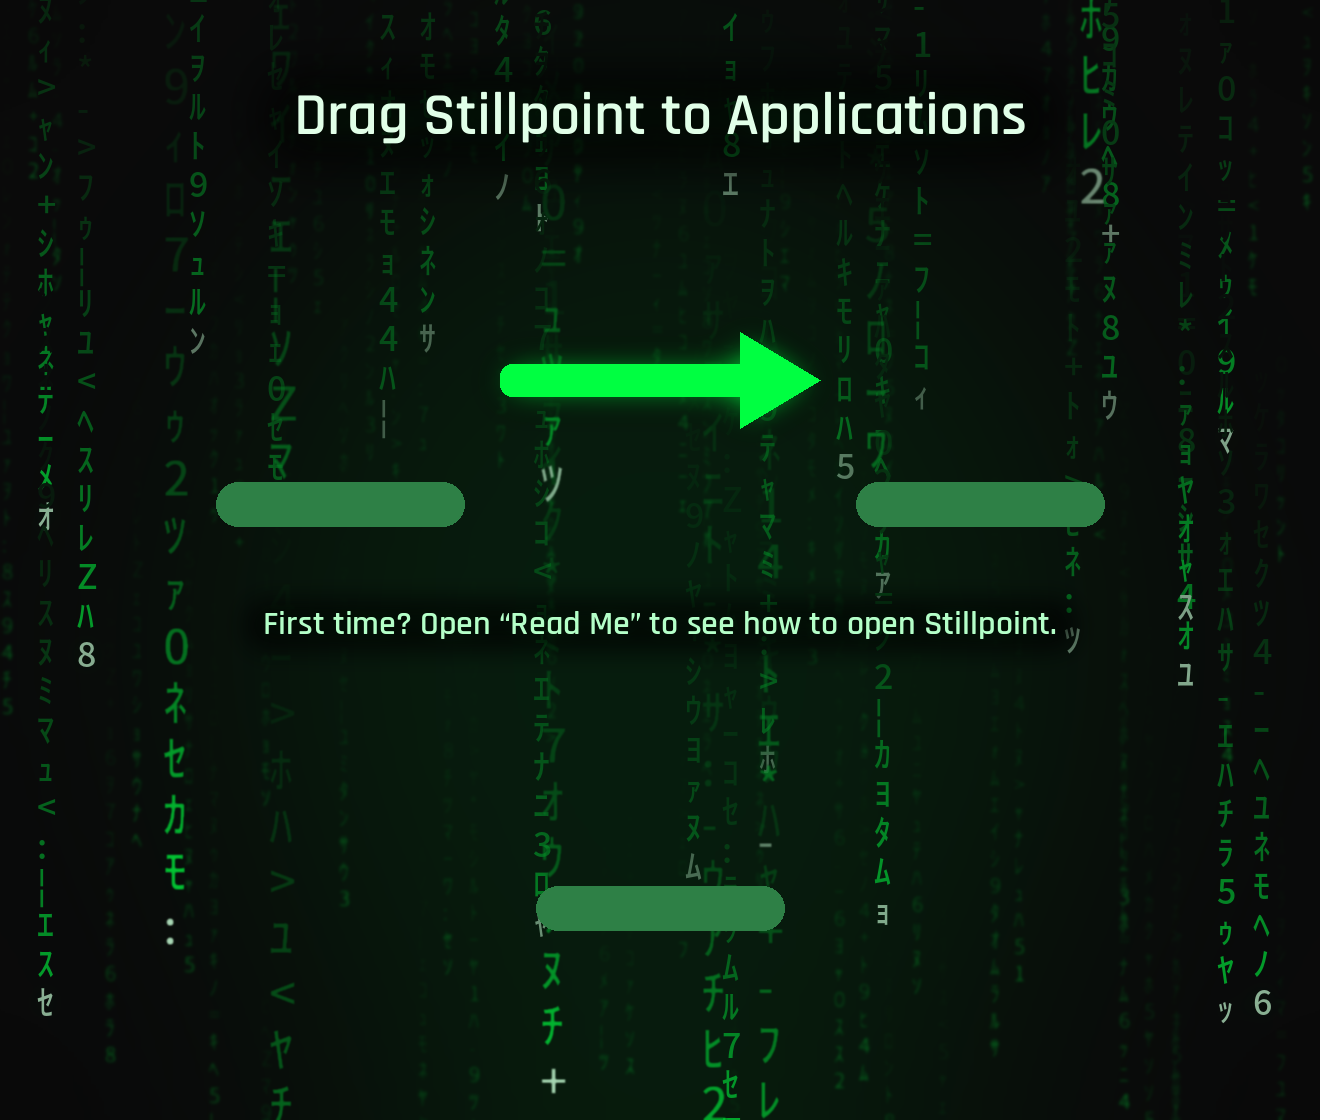
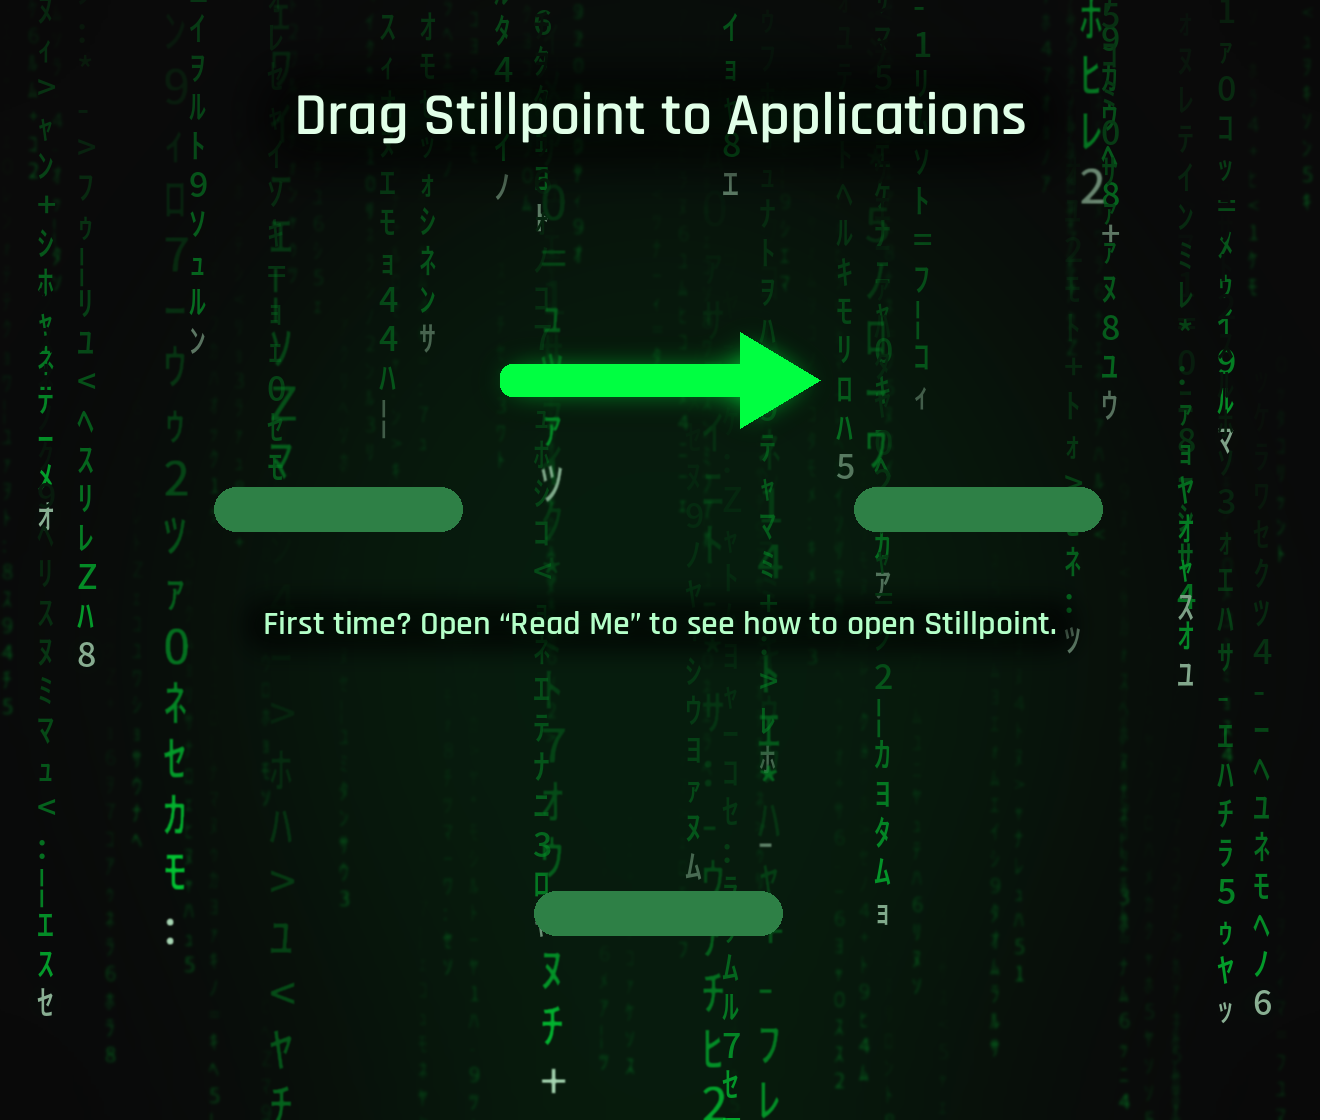
fix(release): center the dmg label plates on the Finder names (measured on macOS 26)
Claude-Session: https://claude.ai/code/session_01Lw62sEH6vu6xxge8ok66p6

diff --git a/scripts/make_installer_art.py b/scripts/make_installer_art.py
@@ -159,9 +159,11 @@ def dmg_background(s):
     img.alpha_composite(arrow)
     # Placas sob os nomes dos ícones: o Finder escreve os nomes em preto (Mac claro) ou
     # branco (Mac escuro); este verde médio deixa os dois legíveis
+    # Centro da placa medido no macOS 26 (2026-10-14): o nome fica ~2,5 pt abaixo e ~0,75 pt
+    # à esquerda do ponto calculado pela posição do ícone
     for (cx, cy) in (APP_POS, APPS_POS, README_POS):
-        ly = cy + ICON_SIZE // 2 + 14
-        d.rounded_rectangle(((cx - 62) * s, (ly - 11) * s, (cx + 62) * s, (ly + 11) * s), radius=11 * s, fill=(46, 128, 70, 235))
+        lx, ly = cx - 0.75, cy + ICON_SIZE // 2 + 16.5
+        d.rounded_rectangle(((lx - 62) * s, (ly - 11) * s, (lx + 62) * s, (ly + 11) * s), radius=11 * s, fill=(46, 128, 70, 235))
     glow_text(img, (330 * s, 312 * s), "First time? Open “Read Me” to see how to open Stillpoint.",
               font("Rajdhani-SemiBold.ttf", 17 * s), (180, 255, 200), radius=6 * s)
     return img.convert("RGB")
